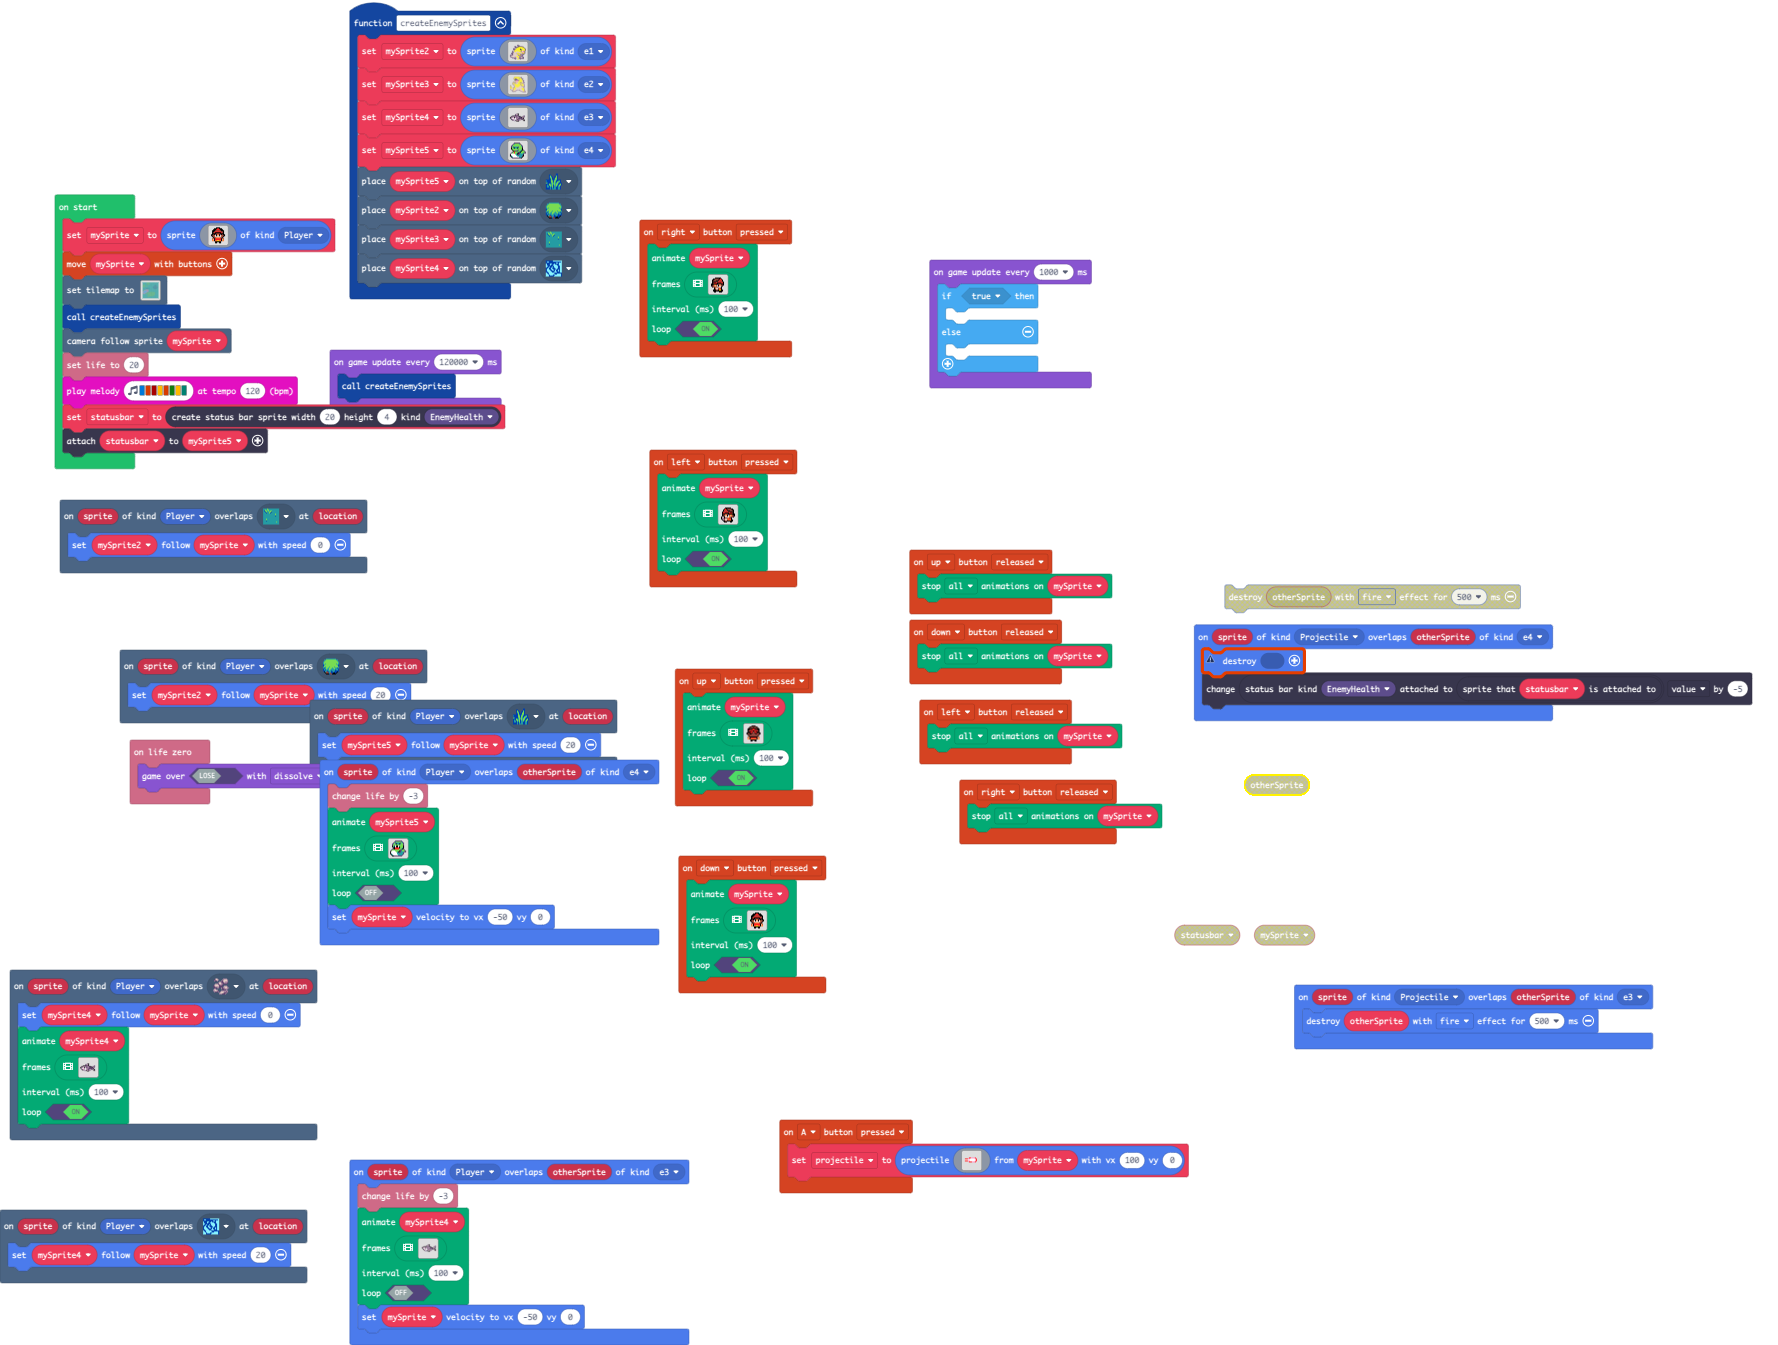
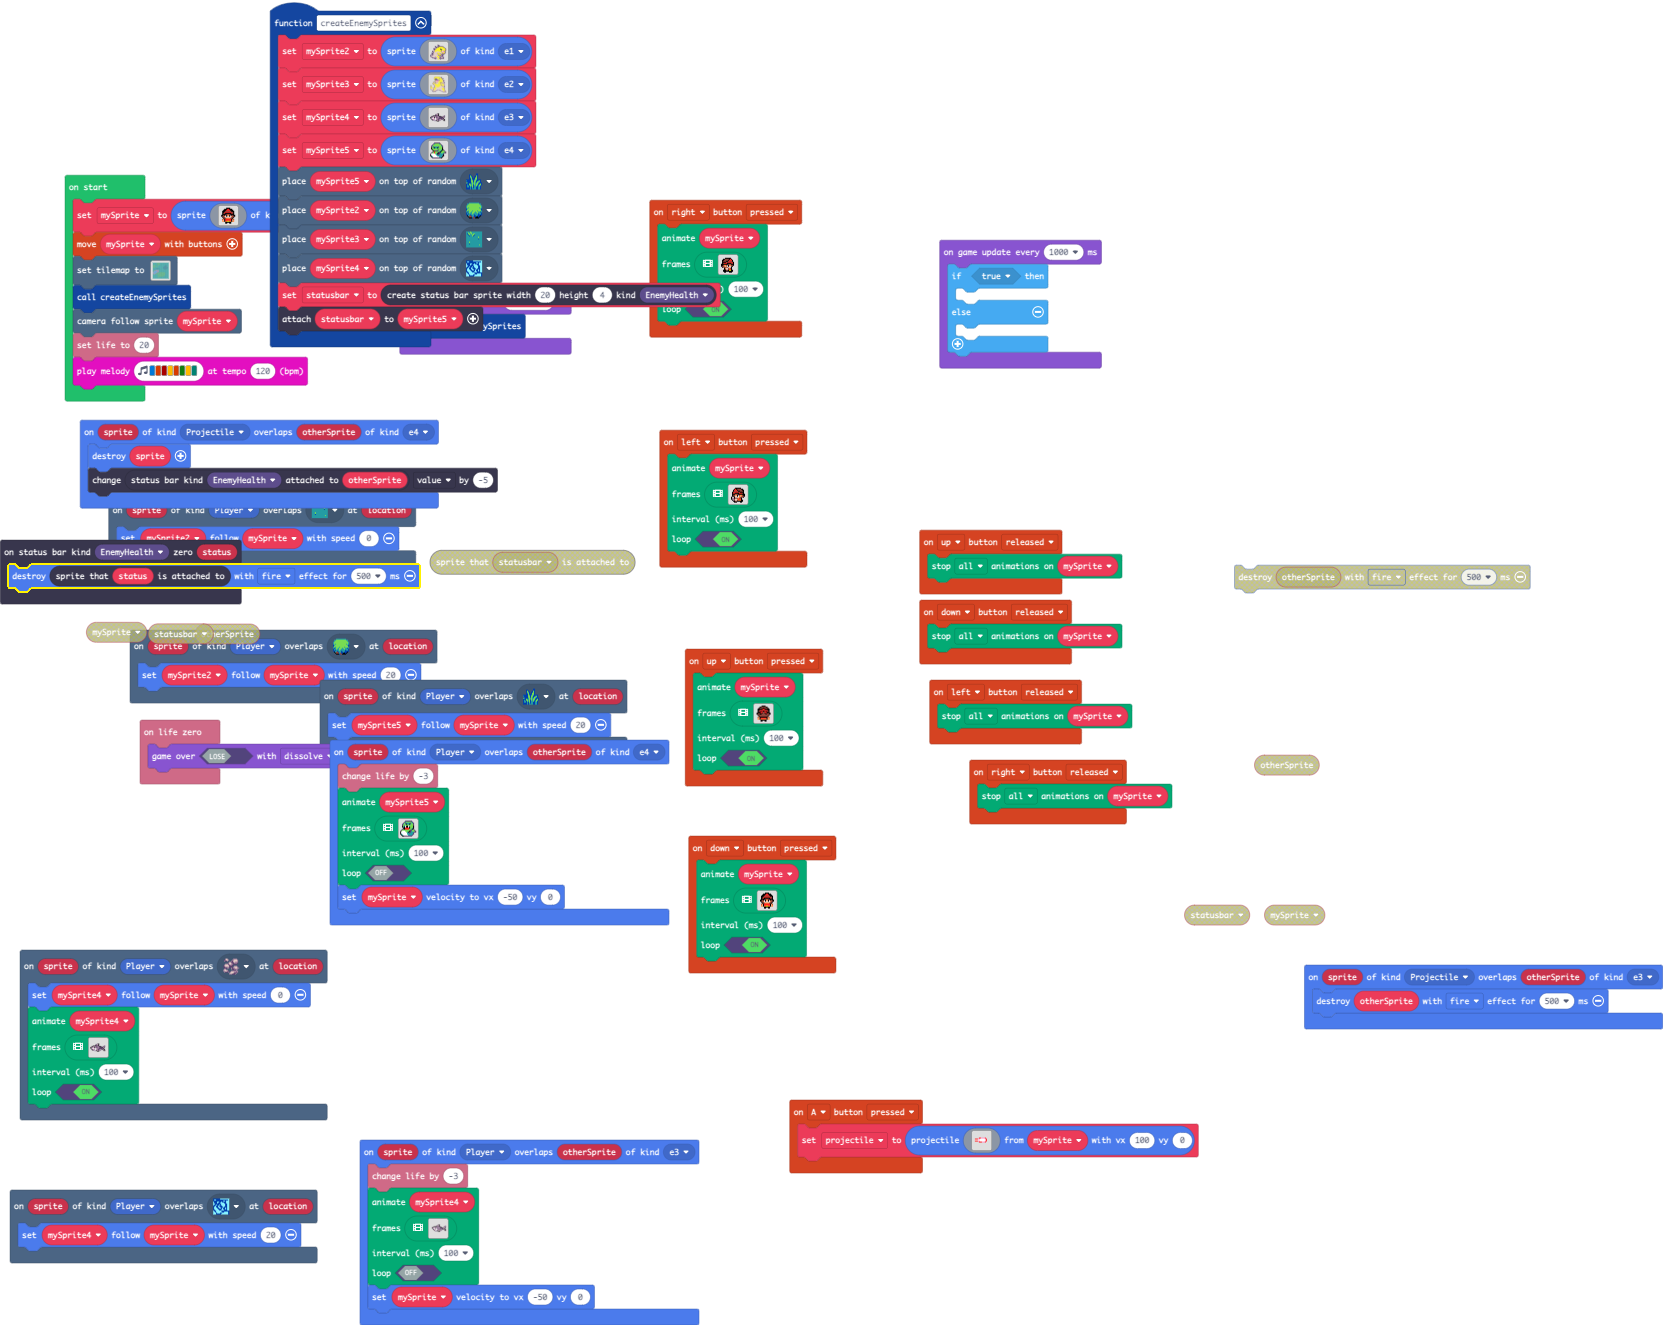
Update main.blocks, main.ts

diff --git a/main.ts b/main.ts
@@ -6,8 +6,8 @@ namespace SpriteKind {
     export const chest = SpriteKind.create()
 }
 sprites.onOverlap(SpriteKind.Projectile, SpriteKind.e4, function (sprite, otherSprite) {
-    null.destroy()
-    statusbars.getStatusBarAttachedTo(StatusBarKind.EnemyHealth, statusbar.spriteAttachedTo()).value += -5
+    sprite.destroy()
+    statusbars.getStatusBarAttachedTo(StatusBarKind.EnemyHealth, otherSprite).value += -5
 })
 controller.up.onEvent(ControllerButtonEvent.Pressed, function () {
     animation.runImageAnimation(
@@ -201,6 +201,9 @@ controller.right.onEvent(ControllerButtonEvent.Released, function () {
 })
 controller.left.onEvent(ControllerButtonEvent.Released, function () {
     animation.stopAnimation(animation.AnimationTypes.All, mySprite)
+})
+statusbars.onZero(StatusBarKind.EnemyHealth, function (status) {
+    status.spriteAttachedTo().destroy(effects.fire, 500)
 })
 scene.onOverlapTile(SpriteKind.Player, sprites.castle.tileDarkGrass3, function (sprite, location) {
     mySprite2.follow(mySprite, 0)
@@ -538,6 +541,8 @@ function createEnemySprites () {
     tiles.placeOnRandomTile(mySprite2, sprites.builtin.forestTiles0)
     tiles.placeOnRandomTile(mySprite3, sprites.castle.tileDarkGrass3)
     tiles.placeOnRandomTile(mySprite4, assets.tile`myTile`)
+    statusbar = statusbars.create(20, 4, StatusBarKind.EnemyHealth)
+    statusbar.attachToSprite(mySprite5)
 }
 controller.up.onEvent(ControllerButtonEvent.Released, function () {
     animation.stopAnimation(animation.AnimationTypes.All, mySprite)
@@ -810,12 +815,12 @@ scene.onOverlapTile(SpriteKind.Player, sprites.castle.rock2, function (sprite, l
     true
     )
 })
+let statusbar: StatusBarSprite = null
 let mySprite3: Sprite = null
 let projectile: Sprite = null
 let mySprite2: Sprite = null
 let mySprite4: Sprite = null
 let mySprite5: Sprite = null
-let statusbar: StatusBarSprite = null
 let mySprite: Sprite = null
 mySprite = sprites.create(img`
     . . . . . . f f f f . . . . . . 
@@ -841,8 +846,6 @@ createEnemySprites()
 scene.cameraFollowSprite(mySprite)
 info.setLife(20)
 music.playMelody("E B C5 A B G A F ", 120)
-statusbar = statusbars.create(20, 4, StatusBarKind.EnemyHealth)
-statusbar.attachToSprite(mySprite5)
 game.onUpdateInterval(1000, function () {
     if (true) {
     	
